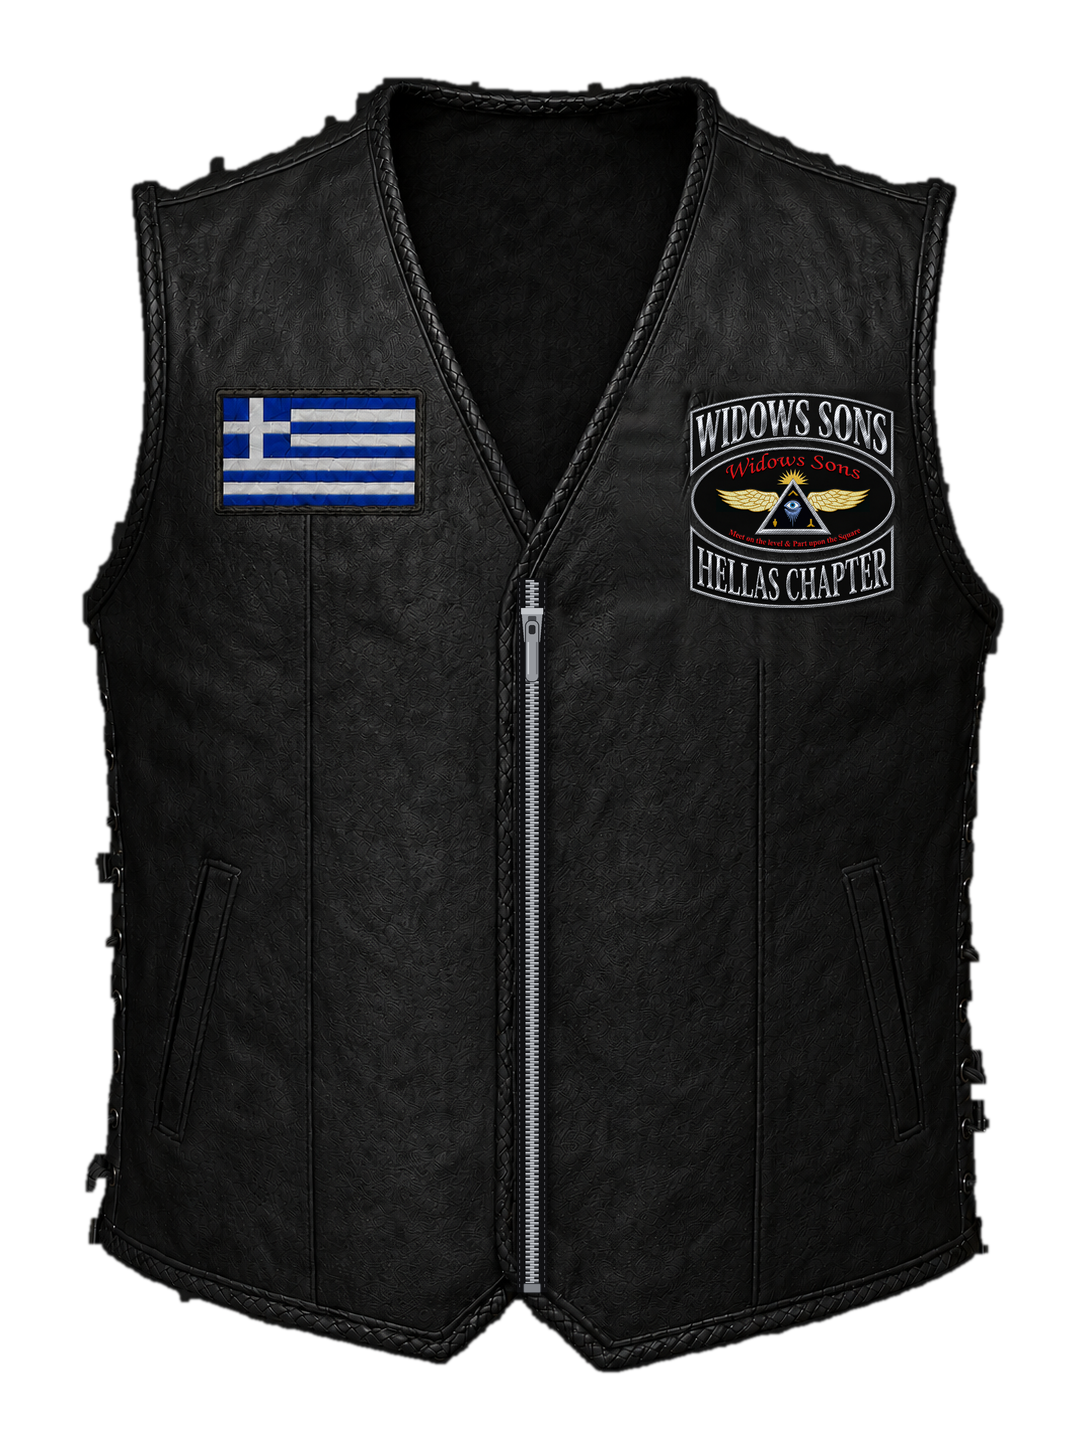
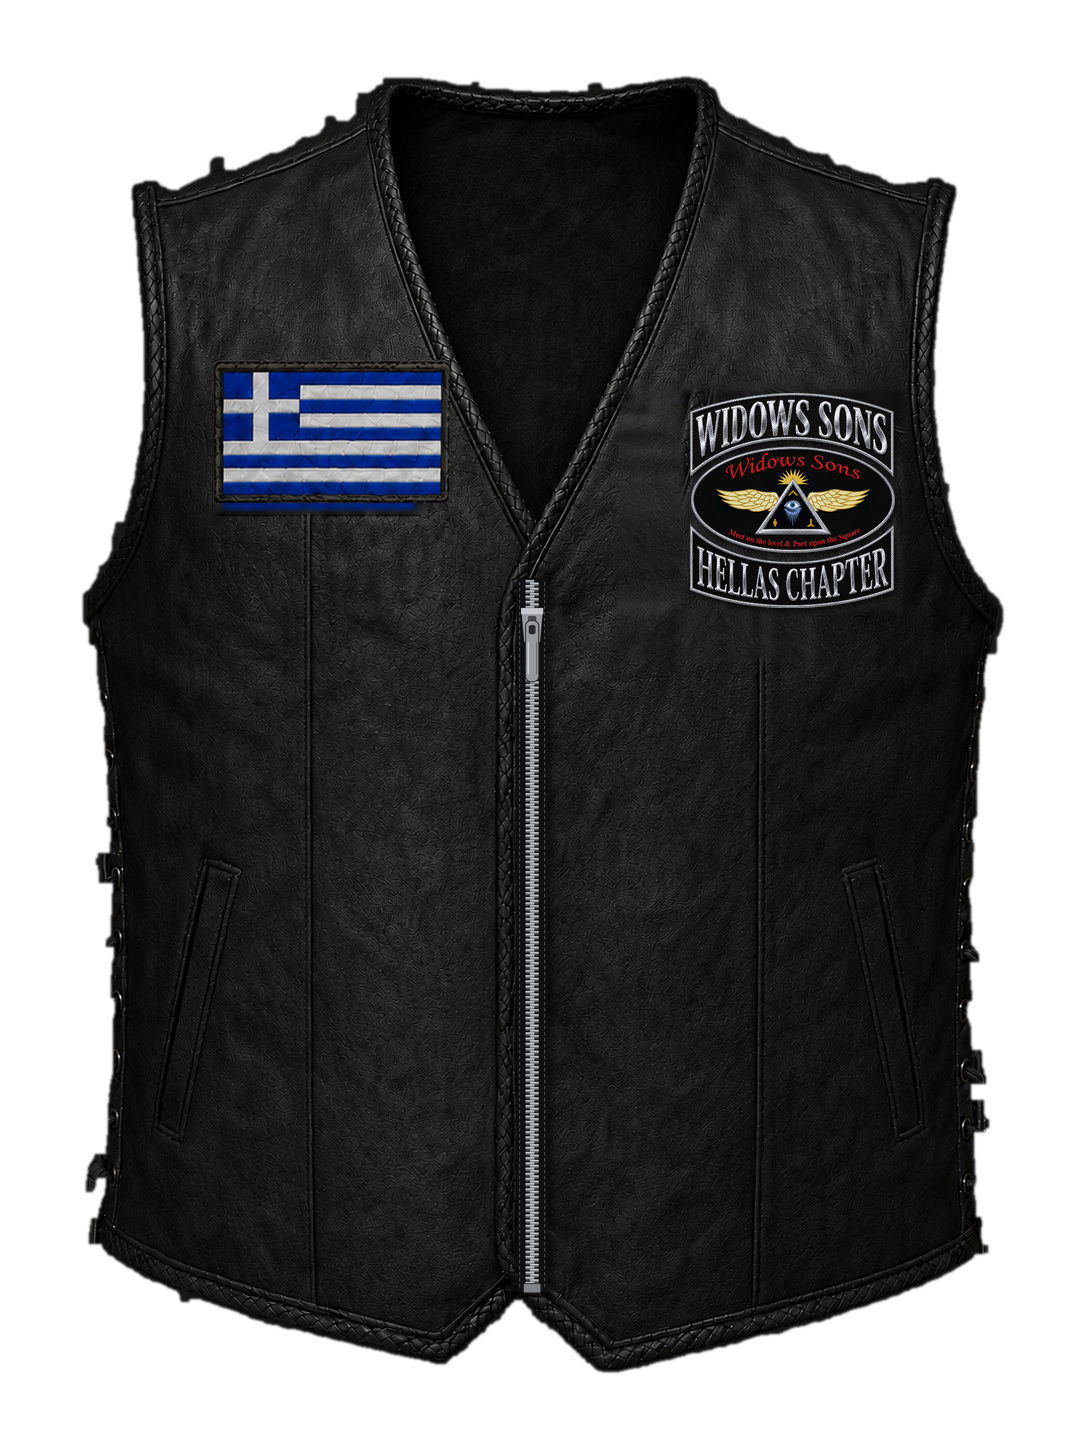
Flag the width of the name patches; Most Honorary as large as Grand Master
- The flag (n.1) is repainted at the width of the name patches beneath
  it, edge to edge with their silver border (236 px, 11.5 cm at the
  photograph's scale), keeping its own proportion and its frame, on both
  the silver and the standard trim. The leather left bare at its old
  edge is filled in. Its number follows it.
- The Honorary patch (n.5) is fitted as the office rank is: MOST
  HONORARY goes on two lines at the same size as GRAND / MASTER instead
  of one small line, and HONORARY alone fills its patch. The download
  draws it the same way.

Claude-Session: https://claude.ai/code/session_01Ps87Ktm1jtAFeFkUS2SjFv

Changed region(s): [[0.1823, 0.2486, 0.4254, 0.3729]]

diff --git a/index.html b/index.html
@@ -45,7 +45,7 @@
     .vest{position:relative;width:min(690px,76vh,calc(100vw - 430px));aspect-ratio:3/4;filter:drop-shadow(0 28px 32px #000a)}
     .vest>img{position:absolute;inset:0;width:100%;height:100%;object-fit:contain}
     .patch{position:absolute;z-index:3;height:5.4%;width:20.8%;display:flex;align-items:center;justify-content:center;padding:0 4%;overflow:hidden;white-space:nowrap;border:2px solid #e5e8ec;outline:1px solid #686e77;border-radius:4px;background:linear-gradient(#191b1f,#020304 55%,#101215);box-shadow:inset 0 0 0 2px #07080a,inset 0 0 0 3px #aeb4bc,0 3px 6px #000b;color:#eef0f3;text-shadow:0 1px #fff7,0 3px 3px #000;font:bold clamp(8px,1.25vw,17px) Georgia,serif}
-    .rank{left:20.2%;top:34.9%;padding:0 2.6%;line-height:1.02;text-align:center;letter-spacing:.01em}.road{left:20.2%;top:40.35%}.founder{left:20.2%;top:45.8%}.honorary{left:20.2%;top:51.25%;font-size:clamp(7px,1.02vw,14px)}
+    .rank{left:20.2%;top:34.9%;padding:0 2.6%;line-height:1.02;text-align:center;letter-spacing:.01em}.road{left:20.2%;top:40.35%}.founder{left:20.2%;top:45.8%}.honorary{left:20.2%;top:51.25%;padding:0 2.6%;line-height:1.02;text-align:center;letter-spacing:.01em}
     /* Patch numbers -- a reference layer only: never drawn into the JPEG. */
     .pno{position:absolute;z-index:6;transform:translate(-50%,-50%);min-width:17px;height:17px;padding:0 4px;border-radius:9px;background:#b3121b;color:#fff;border:1px solid #fff;font:800 10px/15px Inter,Arial,sans-serif;text-align:center;box-shadow:0 1px 3px #000c;pointer-events:none}
     .pno.hidden{display:none}
@@ -98,7 +98,7 @@
     <main>
       <header><div><p class="eyebrow">LIVE PREVIEW</p><h2 id="heading">President</h2></div><div class="badge active" id="trimBadge">Silver trim</div></header>
       <div class="stage"><div class="vest">
-        <img id="vestImage" src="vest-silver.png?v=p10" alt="Widows Sons Hellas Chapter leather vest">
+        <img id="vestImage" src="vest-silver.png?v=f2" alt="Widows Sons Hellas Chapter leather vest">
         <div class="size" id="sizeTag">SIZE<strong>XL</strong></div>
         <div class="patch rank" id="rankPatch">PRESIDENT</div>
         <div class="patch road" id="roadPatch">BUILDSMITH</div>
@@ -166,7 +166,7 @@
     // patches are measured where they sit; the ones printed in the photo are
     // fixed points on it (fractions of the vest box).
     const PNO=[
-      {n:1,at:[.203,.268]},                 // national flag
+      {n:1,at:[.1971,.2486]},                 // national flag
       {n:2,el:'rankPatch'},{n:3,el:'roadPatch'},{n:4,el:'founderPatch'},{n:5,el:'honoraryPatch'},
       // n.6, the Chapter roundel, is taken off the vest; its number is kept free
       // so the numbers after it do not move.
@@ -230,12 +230,12 @@
       el.dataset.lines=JSON.stringify(best.lines);el.dataset.sx=best.sx;
       el.style.fontSize=best.size.toFixed(2)+'px';
     }
-    function refitPatches(){fitPatchFont(hp);fitRank(rp,rank.value);matchPatchFonts(fp,rop);stackLeft()}
-    function updateRank(){const value=rank.value,silver=value==='President'||value==='Grand Master';fitRank(rp,value);document.getElementById('heading').textContent=value;vest.src=silver?'vest-silver.png?v=p10':'vest-standard.png?v=p10';document.getElementById('silverNote').classList.toggle('hidden',!silver);const badge=document.getElementById('trimBadge');badge.textContent=silver?'Silver trim':'Standard trim';badge.classList.toggle('active',silver);if(value==='Grand Master'){type.value='Most Honorary';hp.textContent='MOST HONORARY'}fitPatchFont(hp)}
+    function refitPatches(){fitRank(hp,type.value);fitRank(rp,rank.value);matchPatchFonts(fp,rop);stackLeft()}
+    function updateRank(){const value=rank.value,silver=value==='President'||value==='Grand Master';fitRank(rp,value);document.getElementById('heading').textContent=value;vest.src=silver?'vest-silver.png?v=f2':'vest-standard.png?v=f2';document.getElementById('silverNote').classList.toggle('hidden',!silver);const badge=document.getElementById('trimBadge');badge.textContent=silver?'Silver trim':'Standard trim';badge.classList.toggle('active',silver);if(value==='Grand Master'){type.value='Most Honorary'}fitRank(hp,type.value)}
     rank.addEventListener('change',updateRank);
     road.addEventListener('input',()=>{road.value=road.value.toUpperCase().replace(/[^A-Z]/g,'').slice(0,10);rop.textContent=road.value||'ROAD NAME';matchPatchFonts(fp,rop);document.getElementById('count').textContent=road.value.length+'/10'});
-    type.addEventListener('change',()=>{hp.textContent=type.value.toUpperCase();fitPatchFont(hp)});
-    ht.addEventListener('click',()=>{setToggle(ht,hp,'honoraryStatus',hf);stackLeft()});
+    type.addEventListener('change',()=>{fitRank(hp,type.value)});
+    ht.addEventListener('click',()=>{setToggle(ht,hp,'honoraryStatus',hf);fitRank(hp,type.value);stackLeft()});
     ft.addEventListener('click',()=>{setToggle(ft,fp,'founderStatus');fp.classList.contains('hidden')?fitPatchFont(rop):matchPatchFonts(fp,rop);stackLeft()});
     window.addEventListener('resize',refitPatches);
     refitPatches();
